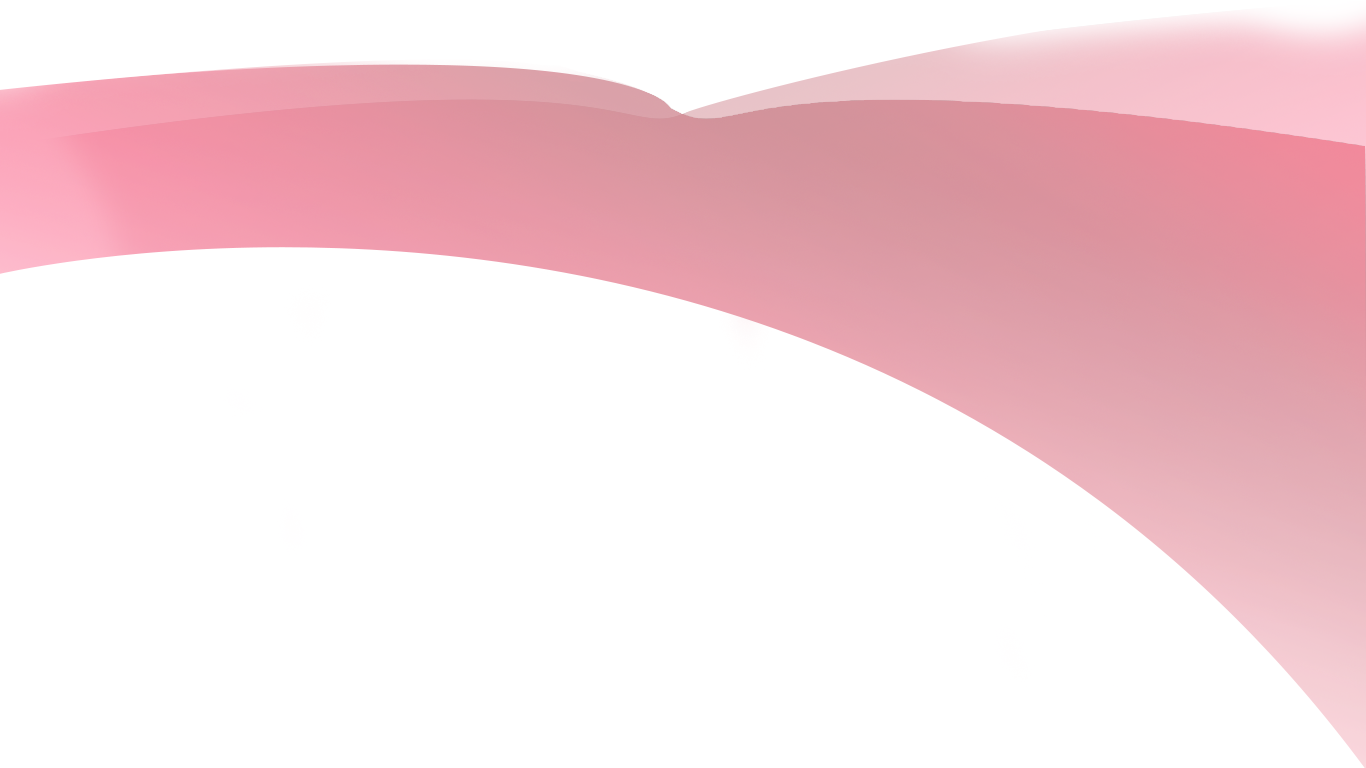
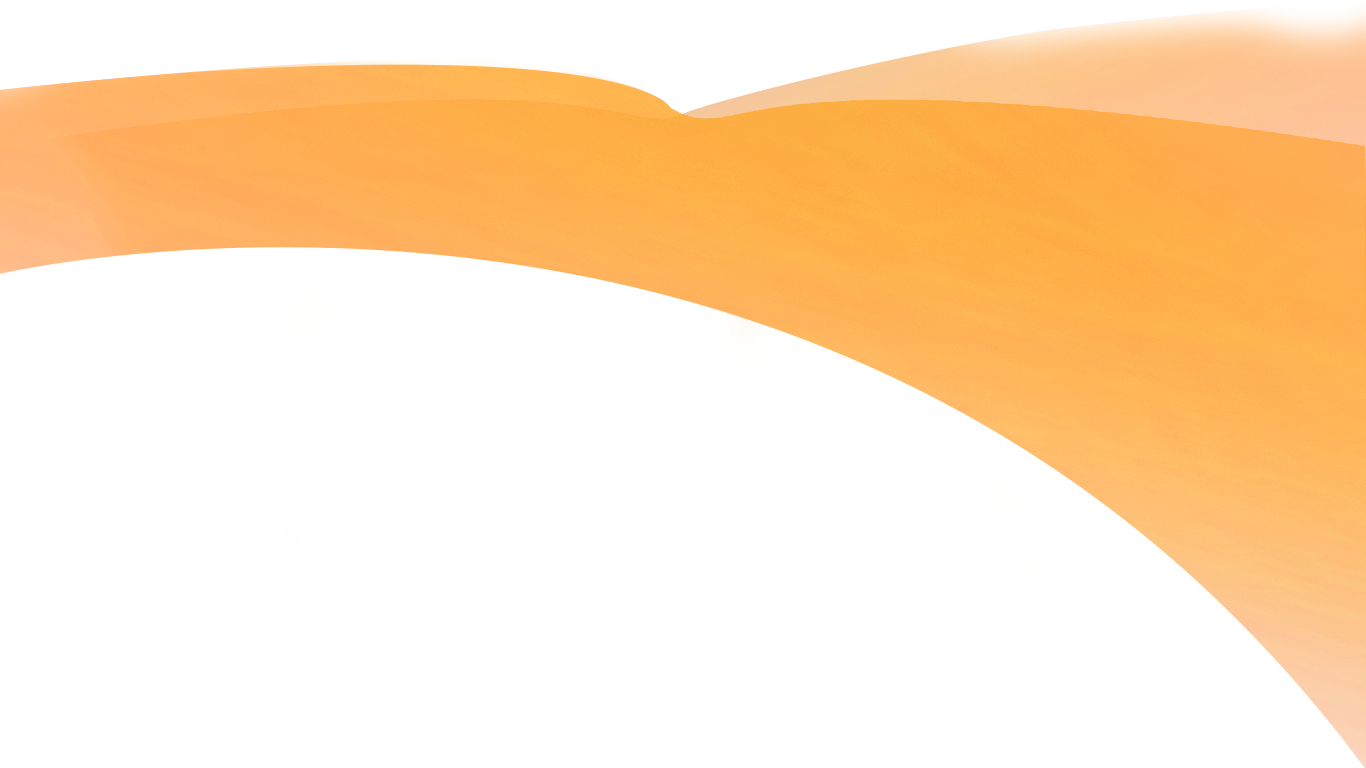
change theme

diff --git a/src/components/Landing/LandingNav.vue b/src/components/Landing/LandingNav.vue
@@ -13,6 +13,23 @@
           <a>{{ link.label }} </a>
         </li>
       </ul>
+      <v-menu elevation-1 offset-y>
+        <template v-slot:activator="{ on, attrs }">
+          <v-btn color="black" class="menu-btn" icon dark v-bind="attrs" v-on="on">
+            <v-icon>mdi-menu</v-icon>
+          </v-btn>
+        </template>
+        <ul class="nav-list-drop">
+          <li
+            v-for="(link, index) in links"
+            :key="link.name"
+            :class="link.isActive == true ? 'current' : ''"
+            @click="changeClass(index, link.name)"
+          >
+            <a>{{ link.label }} </a>
+          </li>
+        </ul>
+      </v-menu>
     </v-app-bar>
   </div>
 </template>
@@ -41,11 +58,12 @@ export default {
 </script>
 
 <style lang="scss" scoped>
-$main_color: #df9ca8;
+$main_color: #ffb04f;
 .nav-landing {
   background-color: transparent;
-  color: $main_color;
+  color: black;
   top: 0%;
+  padding-right: 20px;
 }
 .nav-list {
   list-style: none;
@@ -67,6 +85,40 @@ $main_color: #df9ca8;
   }
   .current {
     border-bottom: solid $main_color 3px;
+  }
+}
+.nav-list-drop {
+  background-color: #ffb04f;
+  list-style: none;
+  li {
+    margin-top: 10px;
+    &:hover {
+      transform: translateY(-3px);
+      transition: transform ease-in-out 172ms;
+    }
+    a {
+      color: black;
+      padding-right: 20px;
+      padding-left: 20px;
+      margin-right: 5px;
+      text-decoration: none;
+      cursor: pointer;
+    }
+  }
+  .current {
+    border-bottom: solid $main_color 3px;
+  }
+}
+.menu-btn {
+  display: none;
+}
+
+@media (max-width: 780px) {
+  .nav-list {
+    display: none;
+  }
+  .menu-btn {
+    display: block;
   }
 }
 </style>

diff --git a/src/views/Login.vue b/src/views/Login.vue
@@ -3,7 +3,7 @@
     <v-form ref="login" class="login">
       <v-card width="350" class="pa-4 mt-10" flat>
         <div class="d-flex justify-center mb-4">
-          <v-avatar color="#df9ca8" size="70">
+          <v-avatar color="#ffb04f" size="70">
             <v-icon class="display-3 white--text">mdi-account</v-icon>
           </v-avatar>
         </div>
@@ -17,7 +17,7 @@
           v-model="credentials.Password"
         ></v-text-field>
         <v-flex class="d-flex justify-center">
-          <v-btn color="#df9ca8" @click="LogIn()" depressed :loading="get_login_loading" class="white--text">
+          <v-btn color="#ffb04f" @click="LogIn()" depressed :loading="get_login_loading" class="white--text">
             <v-icon left>mdi-login</v-icon>login
           </v-btn>
         </v-flex>

diff --git a/src/components/Landing/Home.vue b/src/components/Landing/Home.vue
@@ -63,7 +63,7 @@ export default {
 </script>
 
 <style lang="scss" scoped>
-$main_color: #df9ca8;
+$main_color: #ffb04f;
 $content: #8a5b051a;
 .content {
   background-color: $content;
@@ -136,6 +136,28 @@ $content: #8a5b051a;
   align-items: center;
   img {
     height: 500px;
+  }
+}
+@media (max-width: 780px) {
+  .heading {
+    h4 {
+      padding-top: 110px;
+      text-align: center;
+    }
+  }
+  .co-image {
+    display: none;
+  }
+  .content {
+    margin-top: -150px;
+  }
+  .moto {
+    div {
+      display: flex;
+      align-items: center;
+      flex-direction: column;
+      text-align: center;
+    }
   }
 }
 </style>

diff --git a/src/components/Landing/FeatureCard.vue b/src/components/Landing/FeatureCard.vue
@@ -1,7 +1,7 @@
 <template>
   <div class="card">
     <div class="icon">
-      <v-icon size="50" color="#df9ca8">{{ data.icon }}</v-icon>
+      <v-icon size="50" color="#ffb04f">{{ data.icon }}</v-icon>
     </div>
     <!-- <div class="heading">
       <h4>{{ data.title }}</h4>
@@ -20,7 +20,7 @@ export default {
 </script>
 
 <style lang="scss" scoped>
-$main_color: #df9ca8;
+$main_color: #ffb04f;
 .card {
   height: 200px;
   background-color: white;

diff --git a/src/components/Landing/PricingCard.vue b/src/components/Landing/PricingCard.vue
@@ -18,7 +18,7 @@
     </div>
     <v-card-actions>
       <v-spacer></v-spacer>
-      <v-btn color="#df9ca8" depressed class="white--text">Request demo now</v-btn>
+      <v-btn color="#ffb04f" depressed class="white--text">Request demo now</v-btn>
       <v-spacer></v-spacer>
     </v-card-actions>
   </v-card>

diff --git a/src/components/Landing/heading.vue b/src/components/Landing/heading.vue
@@ -12,7 +12,7 @@ export default {
 </script>
 
 <style lang="scss" scoped>
-$main_color: #df9ca8;
+$main_color: #ffb04f;
 
 .heading {
   display: flex;
